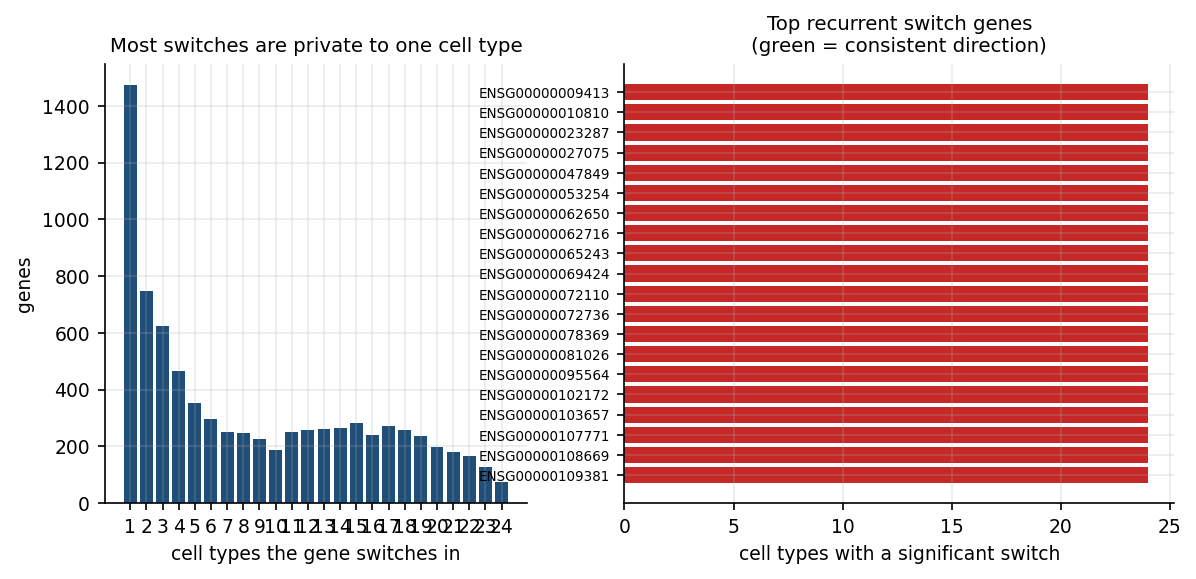
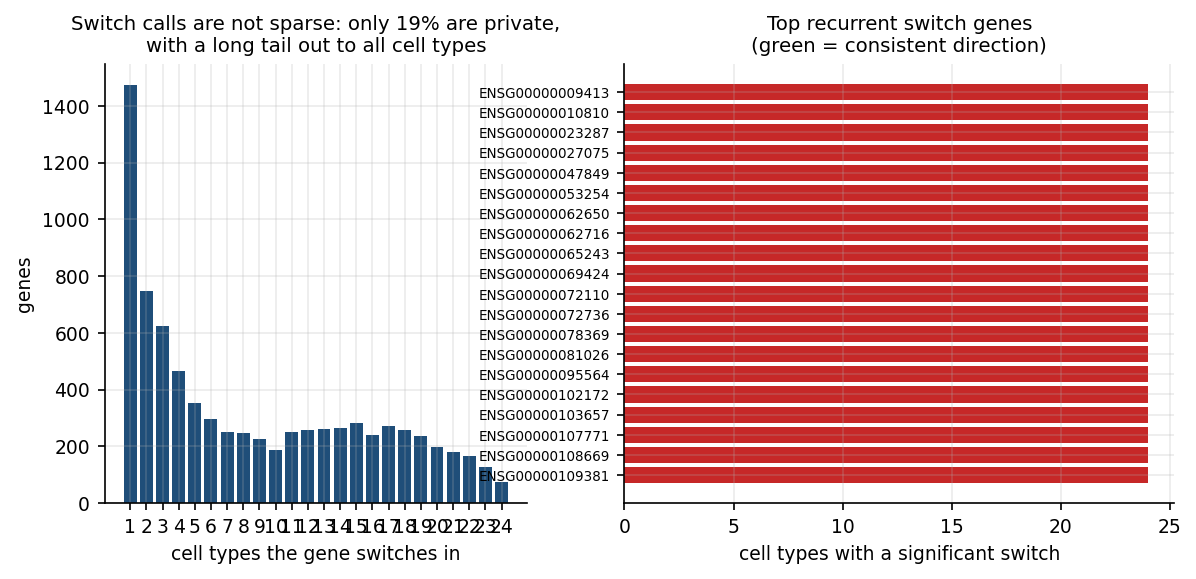
fix(figures): recurrent-switch panel title now describes what the data shows
The title asserted 'most switches are private to one cell type' - written from
the prior expectation, not the result. Only 19% are private and the
distribution has a long flat tail out to all 24 cell types, which is the point
the figure actually makes (and the evidence that recurrence cannot be used as a
confidence filter here).

Changed region(s): [[0.0619, 0.0311, 0.464, 0.0933]]

diff --git a/scripts/analyst_figures.py b/scripts/analyst_figures.py
@@ -328,10 +328,17 @@ def fig_recurrent(df: pd.DataFrame, out_dir: Path, top_n: int = 20) -> None:
     fig, (ax, ax2) = plt.subplots(1, 2, figsize=(9.2, 3.8),
                                   gridspec_kw={"width_ratios": [1, 1.3]})
     counts = df["n_celltypes"].value_counts().sort_index()
+    private = float((df["n_celltypes"] == 1).mean())
     ax.bar(counts.index.astype(str), counts.values, color=OBS)
     ax.set_xlabel("cell types the gene switches in")
     ax.set_ylabel("genes")
-    ax.set_title("Most switches are private to one cell type", fontsize=9.5)
+    # Real cell-type-specific APA would be concentrated at 1. It is not: the
+    # distribution has a long flat tail out to all 24 cell types.
+    ax.set_title(
+        f"Switch calls are not sparse: only {private:.0%} are private,\n"
+        "with a long tail out to all cell types",
+        fontsize=9.5,
+    )
 
     top = df.head(top_n).iloc[::-1]
     colors = ["#2e7d32" if c else "#c62828" for c in top["consistent_direction"]]
